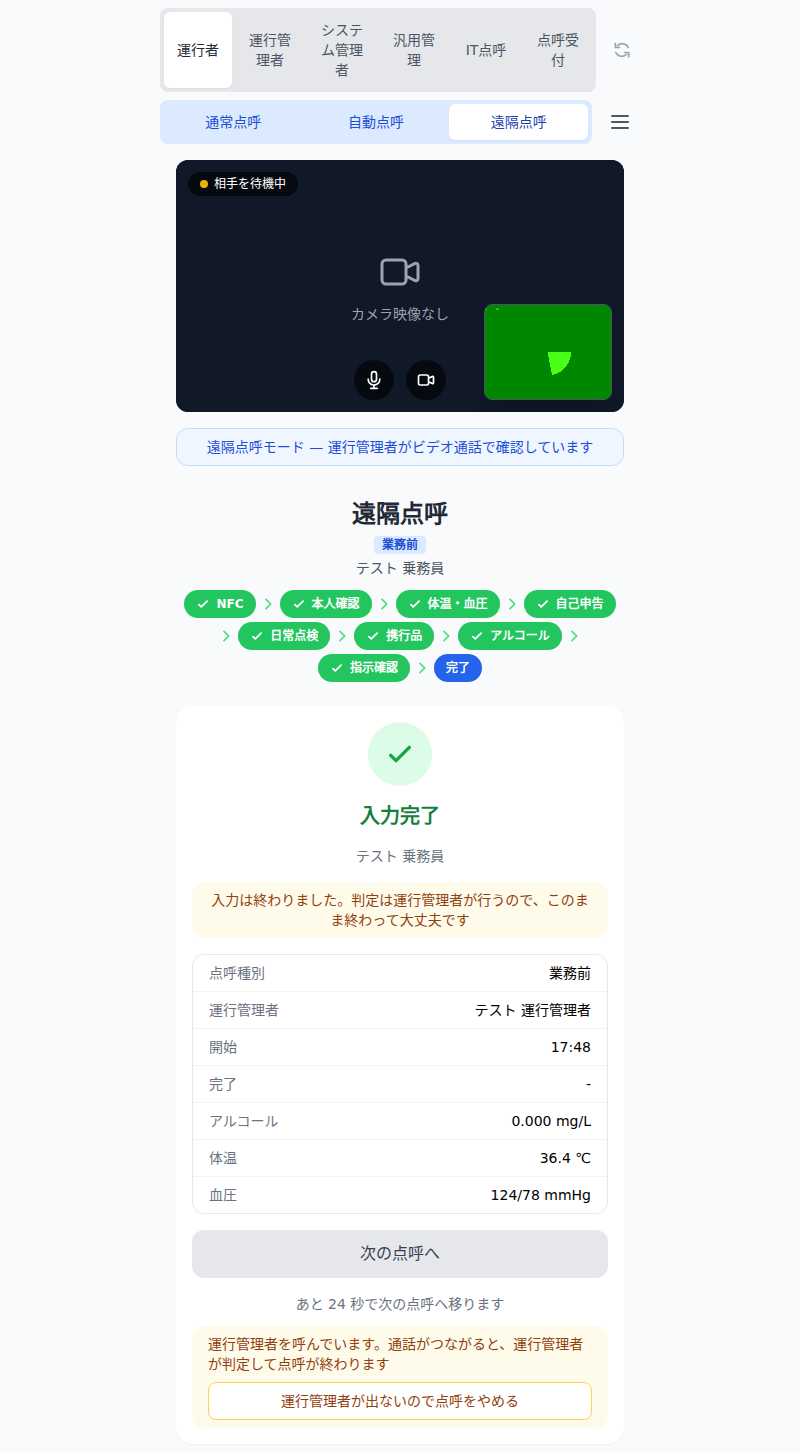
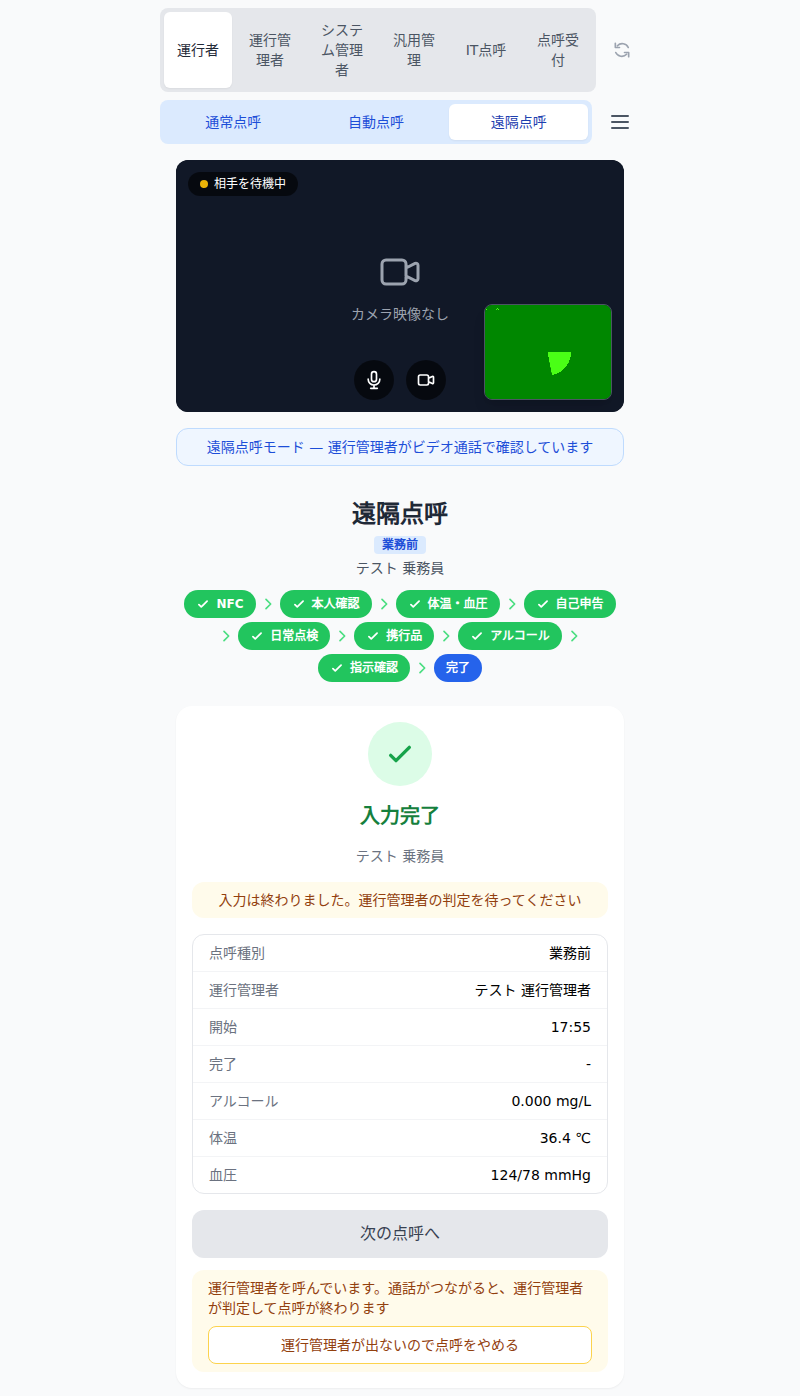
docs: 遠隔点呼の判定待ちは運行管理者が出るまで待つ挙動で書く (Refs #676)
兄弟の c8 (遠隔点呼の判定待ちを 30 秒で最初の画面に戻さない) に合わせる。
- remote-tenko.md: 「着信には 30 秒以内に応答」の注意を外し、乗務員の端末が運行管理者が出るまで呼び続け、
  着信は通話するか乗務員が点呼をやめるまで一覧に残る、と書く
- operator/index.md: 入力完了の画面は運行管理者が出るまで待つ、と書く
- operator-remote-tenko-calling.png: c8 の画面 (「運行管理者の判定を待ってください」・カウントダウン無し) で撮り直す

判定で閉じた後の完了の画面が 30 秒で次の点呼へ移る記載はそのまま。

Changed region(s): [[0.2188, 0.1848, 0.7812, 0.9857], [0.2188, 0.0, 0.7812, 0.154]]

diff --git a/docs/admin/remote-tenko.md b/docs/admin/remote-tenko.md
@@ -49,8 +49,7 @@ sequenceDiagram
 
 「遠隔」の行の「通話する」を押します。
 
-!!! warning "着信には 30 秒以内に応答してください"
-    乗務員の点呼端末は、運行管理者が通話に出ないまま 30 秒が過ぎると最初の画面に戻り、着信の一覧から消えます。
+乗務員の点呼端末は、運行管理者が通話に出るまで呼び続けます。着信は、通話するか、乗務員が点呼をやめるまで一覧に残ります。
 
 !!! note "運行管理者の画面から受ける場合"
     運行管理者の画面（ログインが必要です）の「遠隔点呼」タブでも受けられます。「接続待ちデバイス」の一覧から
